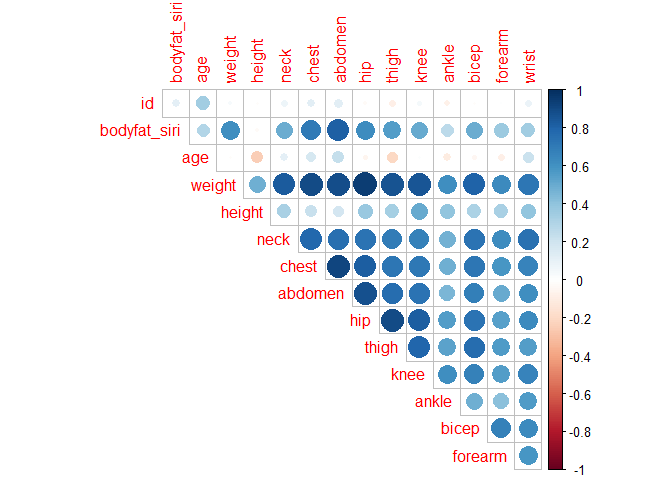
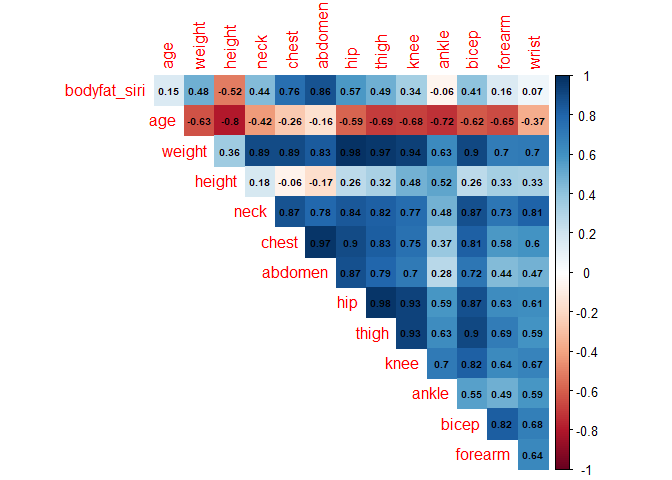
k

Changed region(s): [[0.0938, 0.0, 0.9062, 1.0]]

diff --git a/data.md b/data.md
@@ -5,7 +5,7 @@ data
 ``` r
 body_df=read_excel("data/body_density_data.xlsx") %>%
   janitor::clean_names() %>%
-  select(-bodyfat_brozek,-body_density)
+  select(-bodyfat_brozek,-body_density,-id)
 ```
 
 ``` r
@@ -22,89 +22,99 @@ sum = function(variable){
   )
 }
 
-map(body_df, sum) %>% 
+table=map(body_df, sum) %>% 
   bind_rows() %>% 
   mutate(variable = names(body_df)) %>% 
   select(variable,everything()) %>% 
   filter(variable!="id") %>%
   knitr::kable(digits = 2, 
-               caption = "Descriptive statistics of continuous variables")
+               caption = "Descriptive statistics of continuous variables") 
 ```
 
-| variable     |   mean |    sd | median | maximum | minimum |   IQR |
-|:-------------|-------:|------:|-------:|--------:|--------:|------:|
-| bodyfat_siri |  19.15 |  8.37 |  19.20 |   47.50 |     0.0 | 12.83 |
-| age          |  44.88 | 12.60 |  43.00 |   81.00 |    22.0 | 18.25 |
-| weight       | 178.92 | 29.39 | 176.50 |  363.15 |   118.5 | 38.00 |
-| height       |  70.31 |  2.61 |  70.00 |   77.75 |    64.0 |  4.00 |
-| neck         |  37.99 |  2.43 |  38.00 |   51.20 |    31.1 |  3.02 |
-| chest        | 100.82 |  8.43 |  99.65 |  136.20 |    79.3 | 11.02 |
-| abdomen      |  92.56 | 10.78 |  90.95 |  148.10 |    69.4 | 14.75 |
-| hip          |  99.90 |  7.16 |  99.30 |  147.70 |    85.0 |  8.03 |
-| thigh        |  59.41 |  5.25 |  59.00 |   87.30 |    47.2 |  6.35 |
-| knee         |  38.59 |  2.41 |  38.50 |   49.10 |    33.0 |  2.95 |
-| ankle        |  23.10 |  1.69 |  22.80 |   33.90 |    19.1 |  2.00 |
-| bicep        |  32.27 |  3.02 |  32.05 |   45.00 |    24.8 |  4.12 |
-| forearm      |  28.66 |  2.02 |  28.70 |   34.90 |    21.0 |  2.70 |
-| wrist        |  18.23 |  0.93 |  18.30 |   21.40 |    15.8 |  1.20 |
-
-Descriptive statistics of continuous variables
-
 ``` r
-# check collinearity
+# check multicollinearity
+body_corr=
 body_df %>% 
-select(-id, -bodyfat_siri) %>% 
-cor() ## Correlation coefficient
-```
-
-    ##                 age      weight     height      neck     chest   abdomen
-    ## age      1.00000000 -0.01274609 -0.2452123 0.1135052 0.1764497 0.2304094
-    ## weight  -0.01274609  1.00000000  0.4868880 0.8307162 0.8941905 0.8879949
-    ## height  -0.24521233  0.48688800  1.0000000 0.3211409 0.2268286 0.1897662
-    ## neck     0.11350519  0.83071622  0.3211409 1.0000000 0.7848350 0.7540774
-    ## chest    0.17644968  0.89419052  0.2268286 0.7848350 1.0000000 0.9158277
-    ## abdomen  0.23040942  0.88799494  0.1897662 0.7540774 0.9158277 1.0000000
-    ## hip     -0.05033212  0.94088412  0.3721060 0.7349579 0.8294199 0.8740662
-    ## thigh   -0.20009576  0.86869354  0.3385576 0.6956973 0.7298586 0.7666239
-    ## knee     0.01751569  0.85316739  0.5005005 0.6724050 0.7194964 0.7371789
-    ## ankle   -0.10505810  0.61368542  0.3931315 0.4778924 0.4829879 0.4532227
-    ## bicep   -0.04116212  0.80041593  0.3185075 0.7311459 0.7279075 0.6849827
-    ## forearm -0.08505555  0.63030143  0.3220273 0.6236603 0.5801727 0.5033161
-    ## wrist    0.21353062  0.72977489  0.3977796 0.7448264 0.6601623 0.6198324
-    ##                 hip      thigh       knee      ankle       bicep     forearm
-    ## age     -0.05033212 -0.2000958 0.01751569 -0.1050581 -0.04116212 -0.08505555
-    ## weight   0.94088412  0.8686935 0.85316739  0.6136854  0.80041593  0.63030143
-    ## height   0.37210602  0.3385576 0.50050052  0.3931315  0.31850749  0.32202734
-    ## neck     0.73495788  0.6956973 0.67240498  0.4778924  0.73114592  0.62366027
-    ## chest    0.82941992  0.7298586 0.71949640  0.4829879  0.72790748  0.58017273
-    ## abdomen  0.87406618  0.7666239 0.73717888  0.4532227  0.68498272  0.50331609
-    ## hip      1.00000000  0.8964098 0.82347262  0.5583868  0.73927252  0.54501412
-    ## thigh    0.89640979  1.0000000 0.79917030  0.5397971  0.76147745  0.56684218
-    ## knee     0.82347262  0.7991703 1.00000000  0.6116082  0.67870883  0.55589819
-    ## ankle    0.55838682  0.5397971 0.61160820  1.0000000  0.48485454  0.41904999
-    ## bicep    0.73927252  0.7614774 0.67870883  0.4848545  1.00000000  0.67825513
-    ## forearm  0.54501412  0.5668422 0.55589819  0.4190500  0.67825513  1.00000000
-    ## wrist    0.63008954  0.5586848 0.66450729  0.5661946  0.63212642  0.58558825
-    ##             wrist
-    ## age     0.2135306
-    ## weight  0.7297749
-    ## height  0.3977796
-    ## neck    0.7448264
-    ## chest   0.6601623
-    ## abdomen 0.6198324
-    ## hip     0.6300895
-    ## thigh   0.5586848
-    ## knee    0.6645073
-    ## ankle   0.5661946
-    ## bicep   0.6321264
-    ## forearm 0.5855883
-    ## wrist   1.0000000
-
-``` r
-corrplot(cor(body_df), type = "upper", diag = FALSE)
+cor() 
+corr=corrplot(cor(body_corr), 
+         method = "color", 
+         type = "upper",
+         addCoef.col = "black", 
+         number.cex = 0.6,
+         diag = FALSE) 
 ```
 
 ![](data_files/figure-gfm/correlation-1.png)<!-- -->
+
+``` r
+#Raw VIF
+mult.fit <- lm(bodyfat_siri ~ .,data = body_df)
+vif_values <- vif(mult.fit)
+v_names <- str_to_title (names(vif_values))
+vif_df <- 
+  tibble(variable = v_names, vif = vif_values) %>%
+  mutate(variable = fct_reorder(variable,vif))
+ggplot(data = vif_df,aes(y = variable, x = vif_values)) +
+  geom_col() +
+  geom_vline(xintercept = 5,colour="red",linetype = "longdash") +
+ theme_bw()
+```
+
+![](data_files/figure-gfm/unnamed-chunk-1-1.png)<!-- -->
+
+``` r
+raw_fit=lm(bodyfat_siri~.,data=body_df)
+summary(raw_fit)
+```
+
+    ## 
+    ## Call:
+    ## lm(formula = bodyfat_siri ~ ., data = body_df)
+    ## 
+    ## Residuals:
+    ##      Min       1Q   Median       3Q      Max 
+    ## -11.1966  -2.8824  -0.1111   3.1901   9.9979 
+    ## 
+    ## Coefficients:
+    ##              Estimate Std. Error t value Pr(>|t|)    
+    ## (Intercept) -21.35323   22.18616  -0.962  0.33680    
+    ## age           0.06457    0.03219   2.006  0.04601 *  
+    ## weight       -0.09638    0.06185  -1.558  0.12047    
+    ## height       -0.04394    0.17870  -0.246  0.80599    
+    ## neck         -0.47547    0.23557  -2.018  0.04467 *  
+    ## chest        -0.01718    0.10322  -0.166  0.86792    
+    ## abdomen       0.95500    0.09016  10.592  < 2e-16 ***
+    ## hip          -0.18859    0.14479  -1.302  0.19401    
+    ## thigh         0.24835    0.14617   1.699  0.09061 .  
+    ## knee          0.01395    0.24775   0.056  0.95516    
+    ## ankle         0.17788    0.22262   0.799  0.42505    
+    ## bicep         0.18230    0.17250   1.057  0.29166    
+    ## forearm       0.45574    0.19930   2.287  0.02309 *  
+    ## wrist        -1.65450    0.53316  -3.103  0.00215 ** 
+    ## ---
+    ## Signif. codes:  0 '***' 0.001 '**' 0.01 '*' 0.05 '.' 0.1 ' ' 1
+    ## 
+    ## Residual standard error: 4.309 on 238 degrees of freedom
+    ## Multiple R-squared:  0.7486, Adjusted R-squared:  0.7348 
+    ## F-statistic:  54.5 on 13 and 238 DF,  p-value: < 2.2e-16
+
+``` r
+bodyvf_data=body_df %>%
+select(-weight,-hip,-chest,-thigh) 
+
+mult.fit2 <- lm(bodyfat_siri ~ .,data = bodyvf_data)
+vif_values <- vif(mult.fit2)
+v_names <- str_to_title (names(vif_values))
+vif_df <- 
+  tibble(variable = v_names, vif = vif_values) %>%
+  mutate(variable = fct_reorder(variable,vif))
+ggplot(data = vif_df,aes(y = variable, x = vif_values)) +
+  geom_col() +
+  geom_vline(xintercept = 5,colour="red",linetype = "longdash") +
+  theme_bw() 
+```
+
+![](data_files/figure-gfm/unnamed-chunk-3-1.png)<!-- -->
 
 ``` r
 boxplot(body_df$bodyfat_siri,main='Percent body fat using Siri’s equation')
@@ -113,7 +123,7 @@ boxplot(body_df$bodyfat_siri,main='Percent body fat using Siri’s equation')
 ![](data_files/figure-gfm/check%20outcome%20variable-1.png)<!-- -->
 
 ``` r
-body_df%>% select(-id,-bodyfat_siri)%>%
+body_df%>% select(-bodyfat_siri)%>%
   funModeling::plot_num()
 ```
 
@@ -122,4 +132,4 @@ body_df%>% select(-id,-bodyfat_siri)%>%
     ## ℹ The deprecated feature was likely used in the funModeling package.
     ##   Please report the issue at <]8;;https://github.com/pablo14/funModeling/issueshttps://github.com/pablo14/funModeling/issues]8;;>.
 
-![](data_files/figure-gfm/unnamed-chunk-1-1.png)<!-- -->
+![](data_files/figure-gfm/unnamed-chunk-4-1.png)<!-- -->
